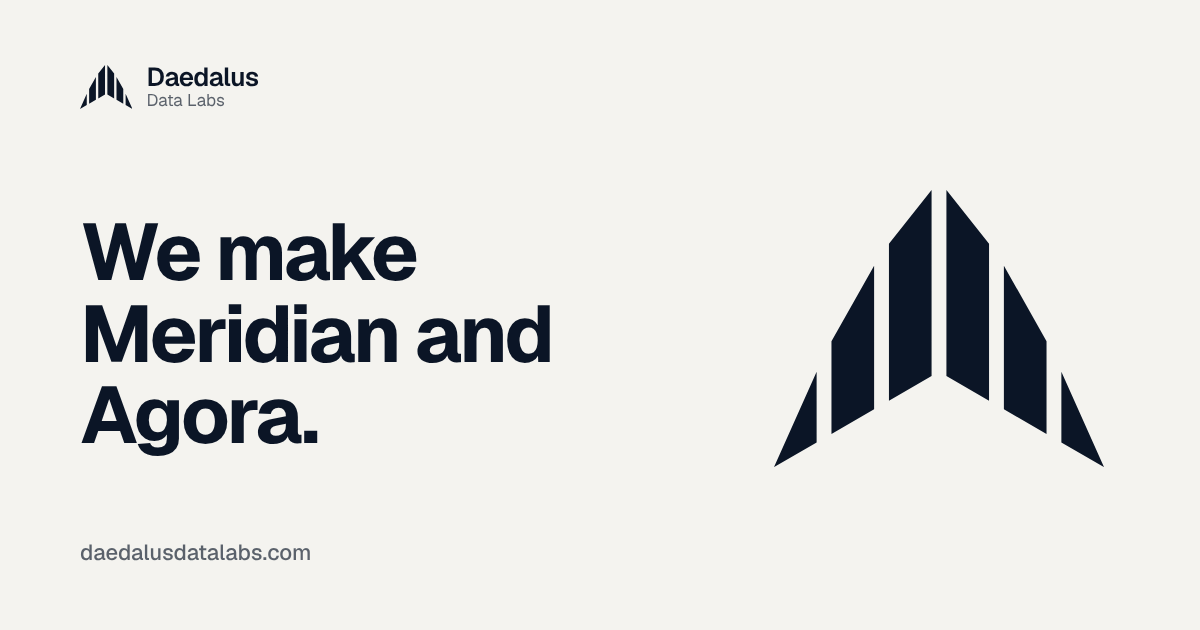
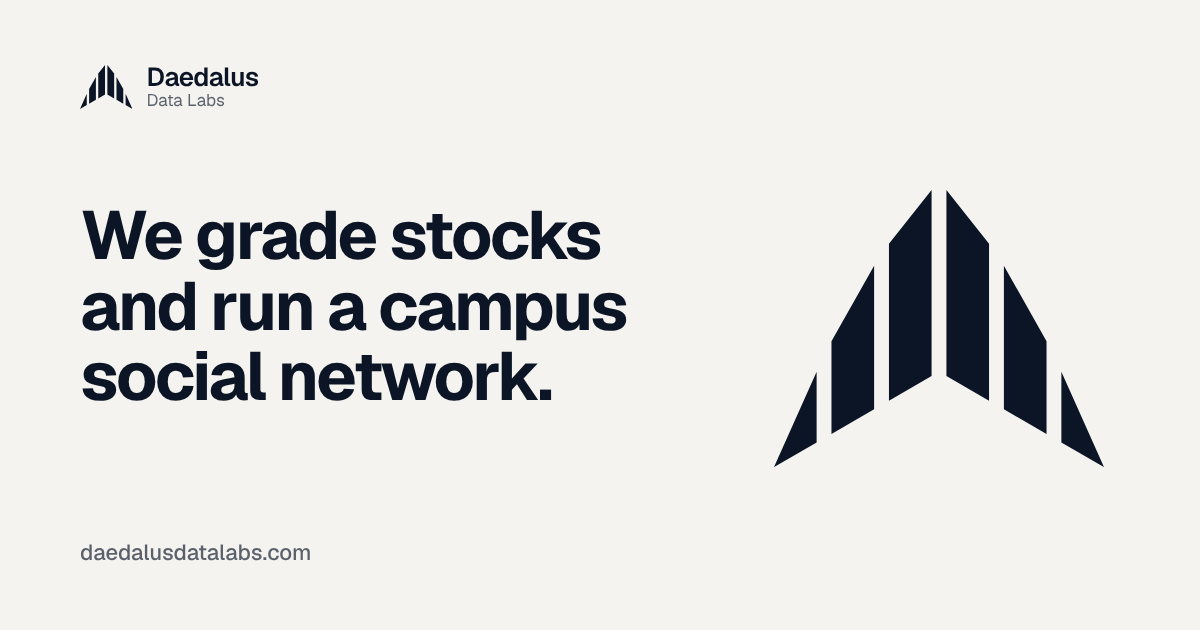
Headline says what we do: 'We grade stocks and run a campus social network.' Hero, OG image and OG description updated; headline sized to three lines

Changed region(s): [[0.0617, 0.3317, 0.5242, 0.7238]]

diff --git a/index.html b/index.html
@@ -6,11 +6,11 @@
 <title>Daedalus Data Labs</title>
 <meta name="description" content="Daedalus Data Labs makes Meridian, which grades US-listed stocks and funds from 0 to 10 and publishes its method, and Agora, a social network open only to people with a verified US university address.">
 <meta property="og:title" content="Daedalus Data Labs">
-<meta property="og:description" content="The company behind Meridian and Agora.">
+<meta property="og:description" content="We grade stocks and run a campus social network.">
 <meta property="og:image" content="https://daedalusdatalabs.com/assets/og.png?v=2">
 <meta property="og:image:width" content="1200">
 <meta property="og:image:height" content="630">
-<meta property="og:image:alt" content="Daedalus Data Labs: We make Meridian and Agora.">
+<meta property="og:image:alt" content="Daedalus Data Labs: We grade stocks and run a campus social network.">
 <meta name="twitter:card" content="summary_large_image">
 <meta property="og:url" content="https://daedalusdatalabs.com">
 <meta name="theme-color" content="#F4F3EF">
@@ -42,7 +42,7 @@
 <main>
   <section class="hero">
     <div class="hero-copy">
-      <h1>We make Meridian and Agora.</h1>
+      <h1>We grade stocks and run a campus social network.</h1>
       <p class="lede">Meridian grades US-listed stocks and funds from 0 to 10 and publishes how each grade is calculated. Agora is a social network open only to people with a verified US university address, where each campus sees only its own posts.</p>
     </div>
     <figure class="construct">

diff --git a/assets/site.css b/assets/site.css
@@ -32,7 +32,7 @@ a{color:inherit}
 
 /* Hero: the mark, drawn from its construction */
 .hero{display:grid;grid-template-columns:minmax(0,5fr) minmax(0,6fr);gap:48px;align-items:center;padding:72px 0 96px}
-.hero h1{font-size:clamp(44px,6.4vw,84px);line-height:.98;letter-spacing:-.045em;font-weight:600;margin:0 0 14px}
+.hero h1{font-size:clamp(40px,4.8vw,60px);line-height:1;letter-spacing:-.045em;font-weight:600;margin:0 0 14px}
 .lede{font-size:20px;line-height:1.5;color:var(--muted);margin:0;max-width:34ch}
 .construct{margin:0}
 .construct svg{width:100%;height:auto;display:block;overflow:visible}
